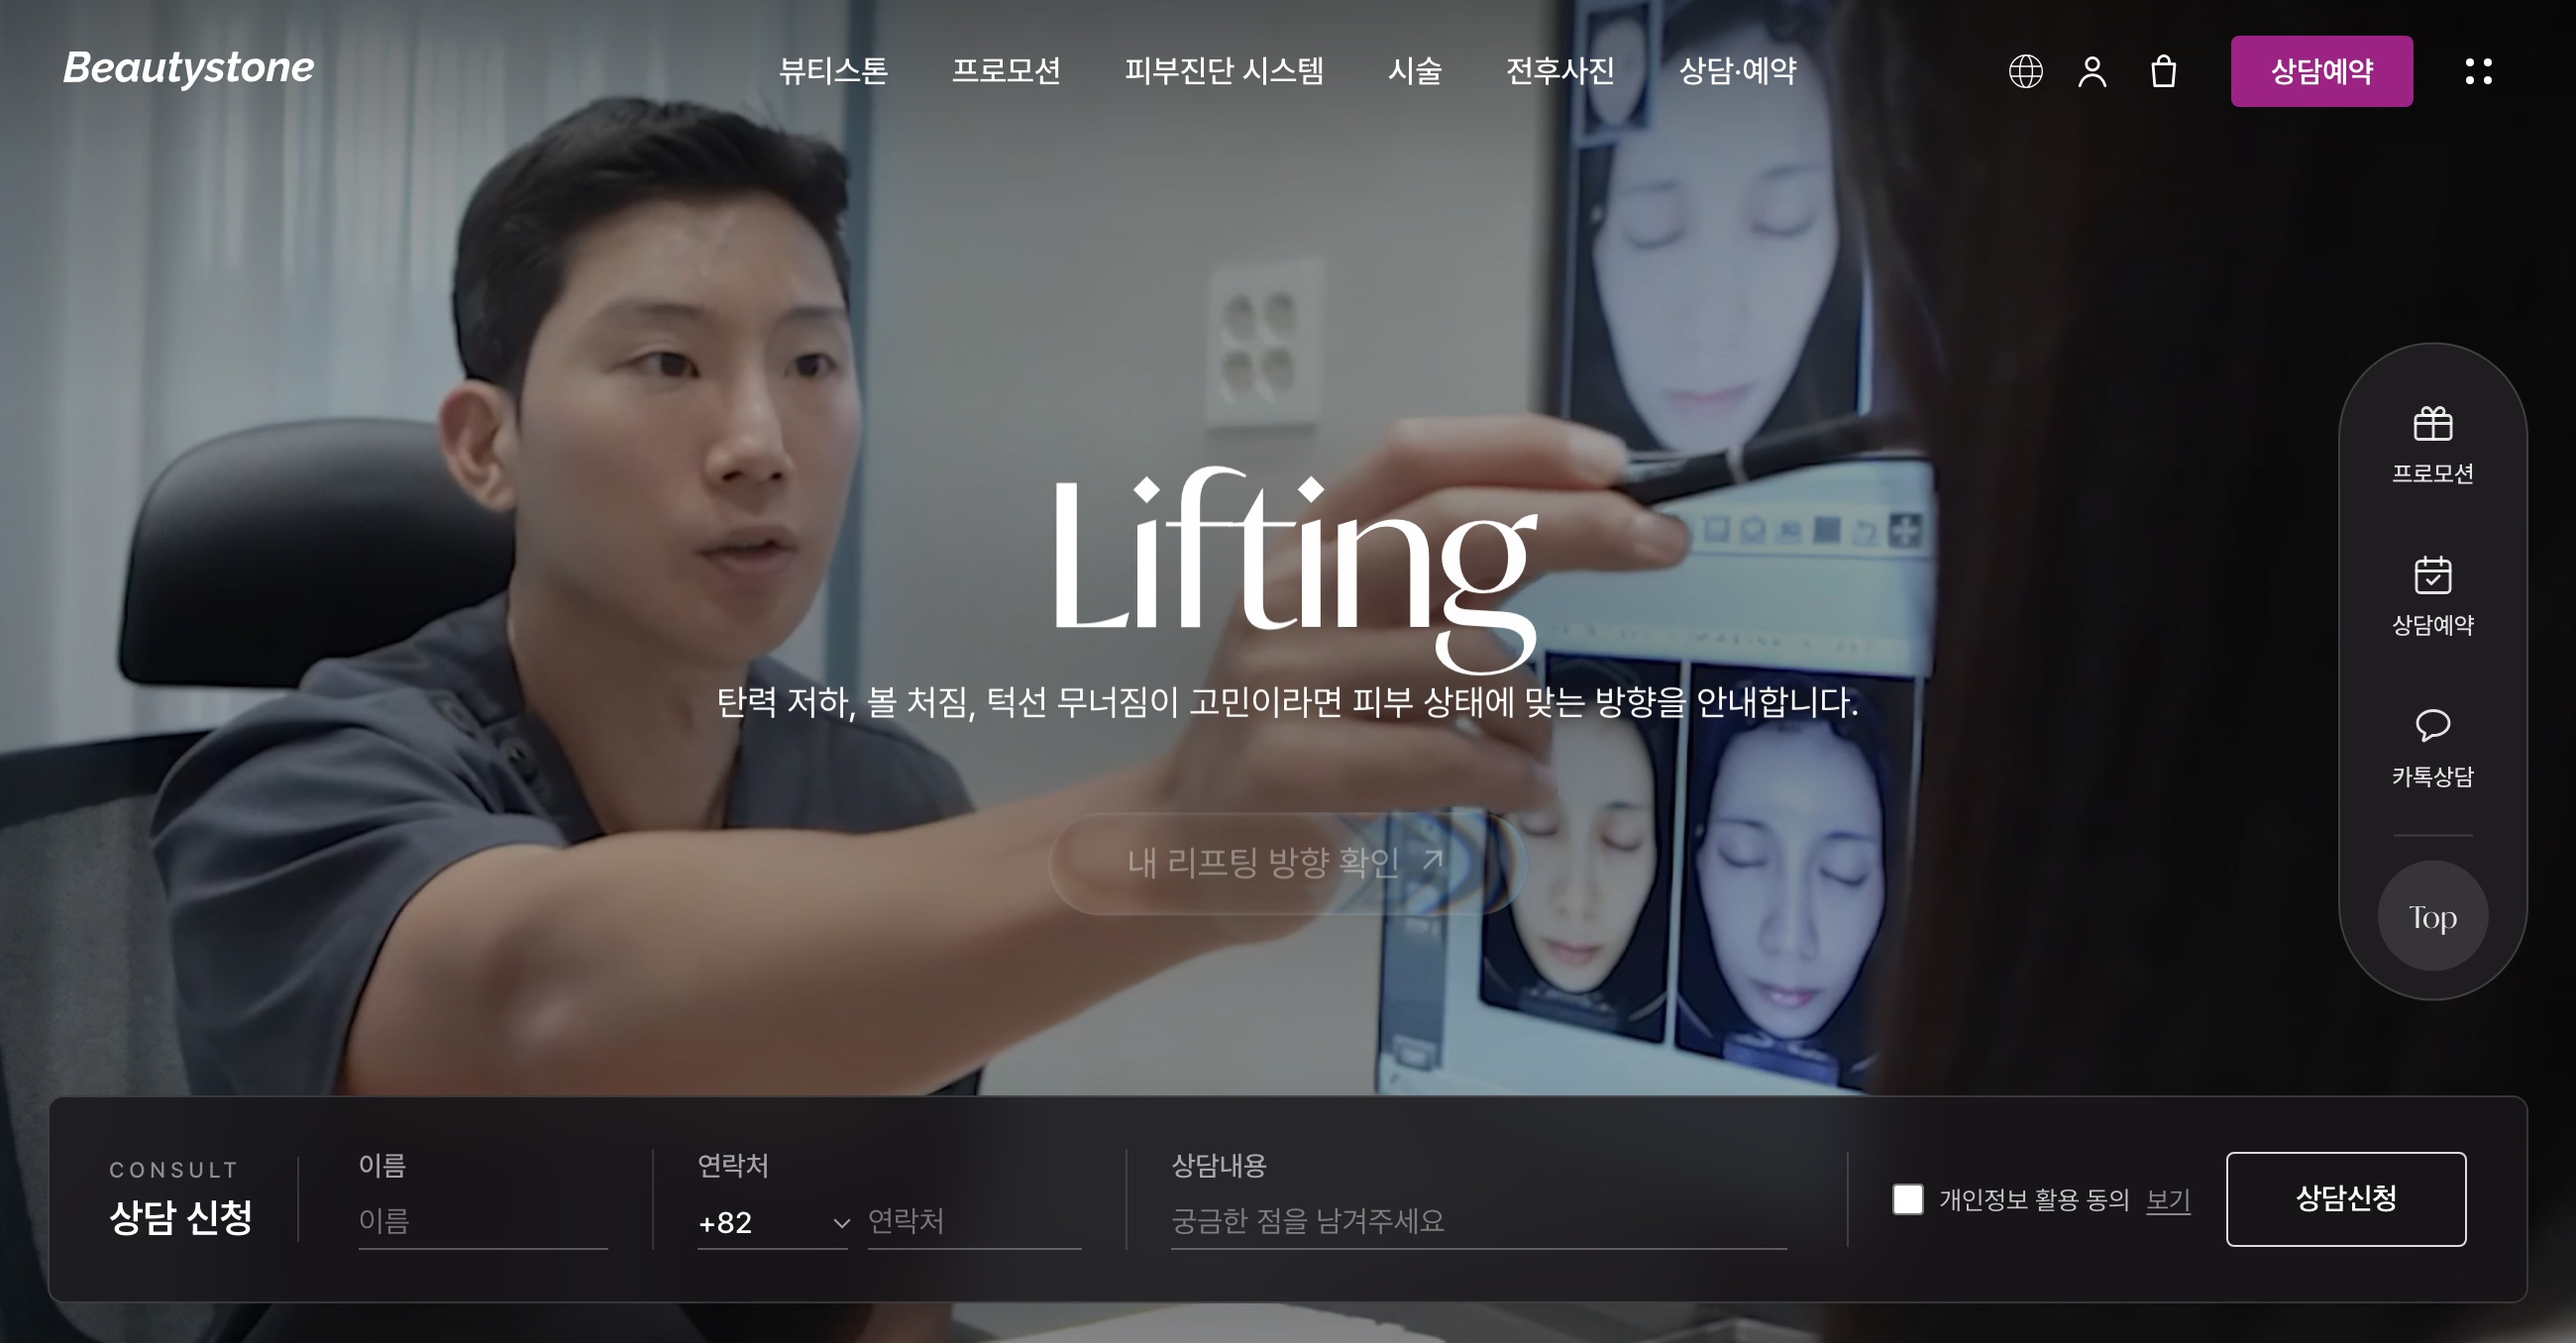
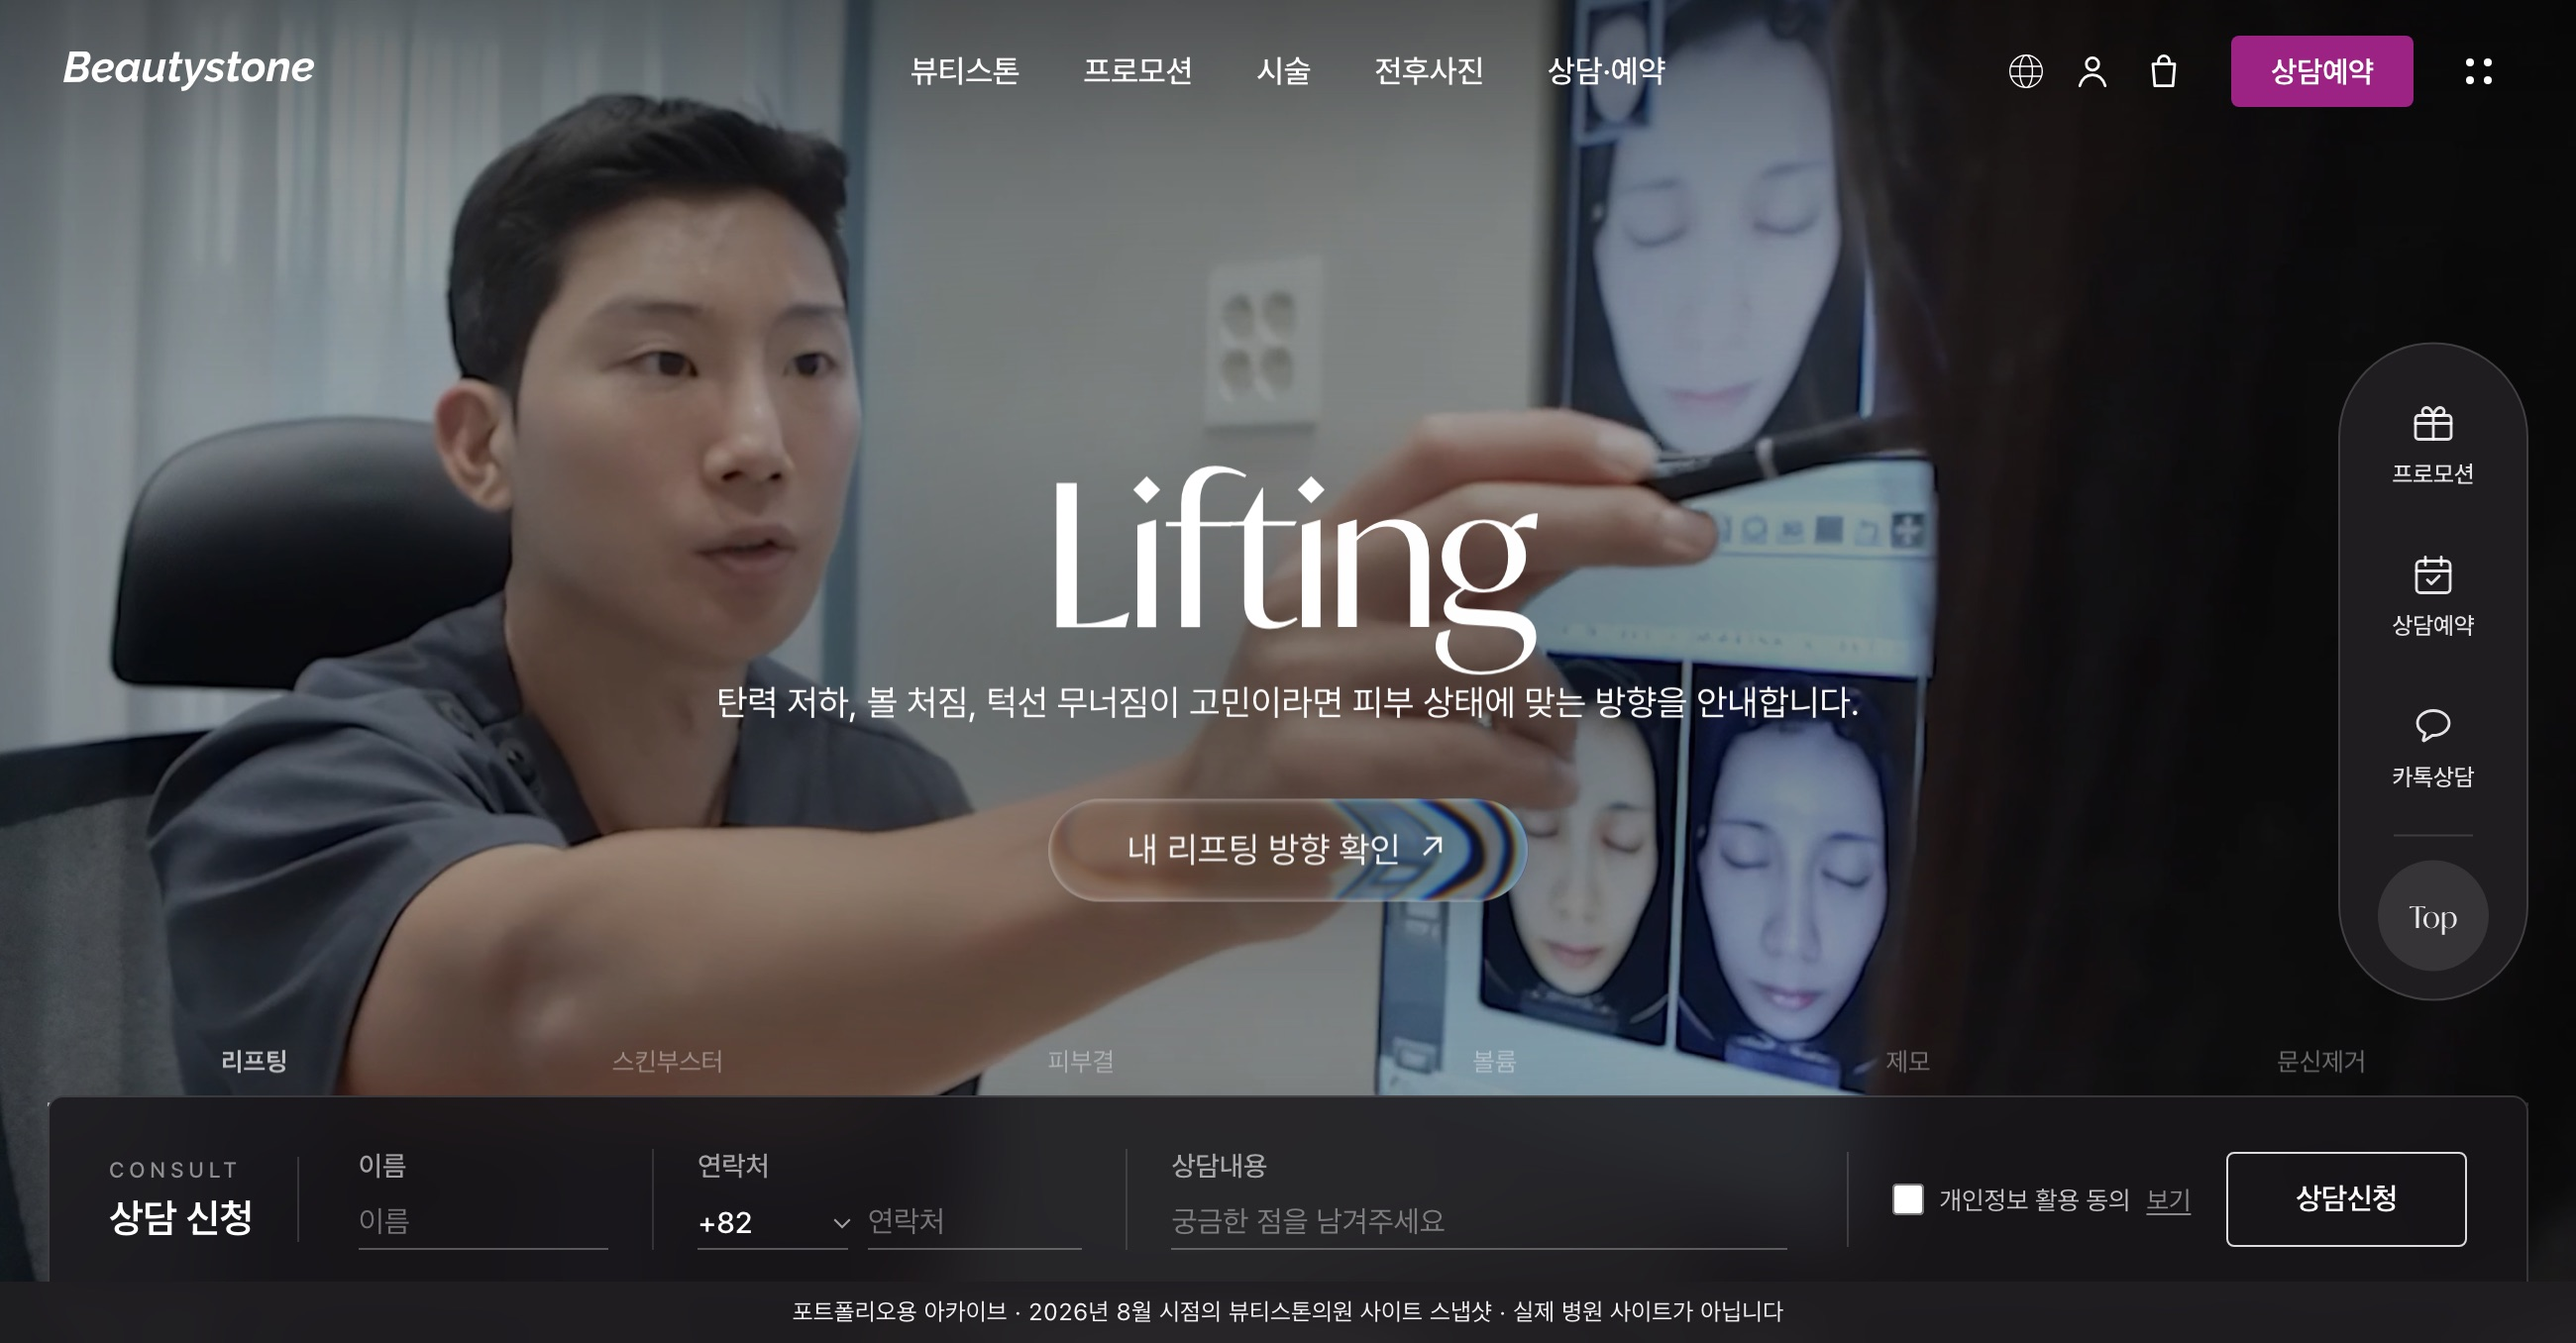
뷰티스톤 케이스 스터디 — 링크와 캡처를 2026.08 아카이브 기준으로

diff --git a/projects/beautystone.html b/projects/beautystone.html
@@ -95,10 +95,13 @@
       <h1 class="cs-title">뷰티스톤의원<br>웹사이트 리뉴얼</h1>
       <p class="cs-subtitle">피부과 홈페이지를 Framer 기반 사이트에서 Next.js로 새로 구축한 실서비스 프로젝트. 브랜드 무드보드 수립부터 6개 언어 대응, 프로모션 주문 흐름, 어드민 백오피스까지 기획·디자인·프론트엔드를 전담했습니다.</p>
       <div class="cs-hero-actions">
-        <a href="https://hongdae.beautystone1.com/ko" target="_blank" rel="noopener" class="cs-link-btn">
-          라이브 사이트 보기 ↗
+        <a href="https://beautystone-archive.pages.dev/ko" target="_blank" rel="noopener" class="cs-link-btn">
+          사이트 보기 (2026.08 아카이브) ↗
         </a>
-        <a href="https://hongdae.beautystone1.com/ko/moodboard" target="_blank" rel="noopener" class="cs-link-btn cs-link-btn-ghost">
+        <a href="https://hongdae.beautystone1.com/ko" target="_blank" rel="noopener" class="cs-link-btn cs-link-btn-ghost">
+          현재 운영 사이트 ↗
+        </a>
+        <a href="https://beautystone-archive.pages.dev/ko/moodboard" target="_blank" rel="noopener" class="cs-link-btn cs-link-btn-ghost">
           브랜드 무드보드 ↗
         </a>
       </div>
@@ -107,10 +110,10 @@
 
   <!-- Thumb -->
   <div class="container">
-    <a href="https://hongdae.beautystone1.com/ko" target="_blank" rel="noopener" class="cs-thumb-link">
+    <a href="https://beautystone-archive.pages.dev/ko" target="_blank" rel="noopener" class="cs-thumb-link">
       <div class="cs-thumb">
         <img src="../assets/images/thumb-beautystone.jpg" alt="뷰티스톤의원 리뉴얼 메인 화면" class="cs-thumb-img">
-        <span class="cs-thumb-label">hongdae.beautystone1.com</span>
+        <span class="cs-thumb-label">beautystone-archive.pages.dev · 2026.08 스냅샷</span>
       </div>
     </a>
   </div>
@@ -143,7 +146,7 @@
       <p class="cs-section-label">Overview</p>
       <h2 class="cs-section-title">프로젝트 소개</h2>
       <p class="cs-text">뷰티스톤의원은 서울 합정에 있는 피부과로, 리프팅 시술을 중심으로 국내외 환자를 진료합니다. 기존 홈페이지는 Framer로 만들어져 있어 프로모션 항목이나 가격을 바꾸려면 매번 이미지를 다시 제작해야 했고, 외국인 환자를 위한 언어 대응과 사이트 안에서 상담·예약으로 이어지는 흐름이 부족했습니다.</p>
-      <p class="cs-text">이 프로젝트에서 저는 기획, UX/UI 디자인, 프론트엔드 개발을 전담했고 백엔드 담당자 1인과 결제 영역을 협업했습니다. 브랜드 무드보드를 먼저 세워 디자인 기준을 잡고, 그 기준을 디자인 토큰과 공용 컴포넌트로 옮겨 41개 페이지를 일관되게 만들었습니다. 4주 만에 실 도메인으로 전환해 현재 실제 방문자를 받고 있습니다.</p>
+      <p class="cs-text">이 프로젝트에서 저는 기획, UX/UI 디자인, 프론트엔드 개발을 전담했고 백엔드 담당자 1인과 결제 영역을 협업했습니다. 브랜드 무드보드를 먼저 세워 디자인 기준을 잡고, 그 기준을 디자인 토큰과 공용 컴포넌트로 옮겨 41개 페이지를 일관되게 만들었습니다. 4주 만에 실 도메인으로 전환해 현재 실제 방문자를 받고 있습니다. 운영 사이트는 이후 병원 측에서 계속 바뀌므로, 제가 작업을 마친 2026년 8월 시점의 화면을 그대로 굳힌 아카이브를 따로 두었습니다. 아래 버튼과 화면 캡처는 그 아카이브로 연결됩니다.</p>
     </div>
 
     <!-- Problem -->
@@ -212,8 +215,8 @@
 
     <!-- CTA -->
     <div class="cs-section fade-in" style="text-align:center; border-top: 1px solid var(--border); padding-top: 4rem;">
-      <a href="https://hongdae.beautystone1.com/ko" target="_blank" rel="noopener" class="cs-link-btn" style="margin: 0 auto;">
-        라이브 사이트 방문 ↗
+      <a href="https://beautystone-archive.pages.dev/ko" target="_blank" rel="noopener" class="cs-link-btn" style="margin: 0 auto;">
+        사이트 보기 (2026.08 아카이브) ↗
       </a>
       <div style="margin-top:2rem;">
         <a href="matin-kim.html" style="font-size:0.875rem; color: var(--fg2); text-decoration:none; border-bottom: 1px solid var(--border); padding-bottom:0.25rem; transition: color 0.2s;">
